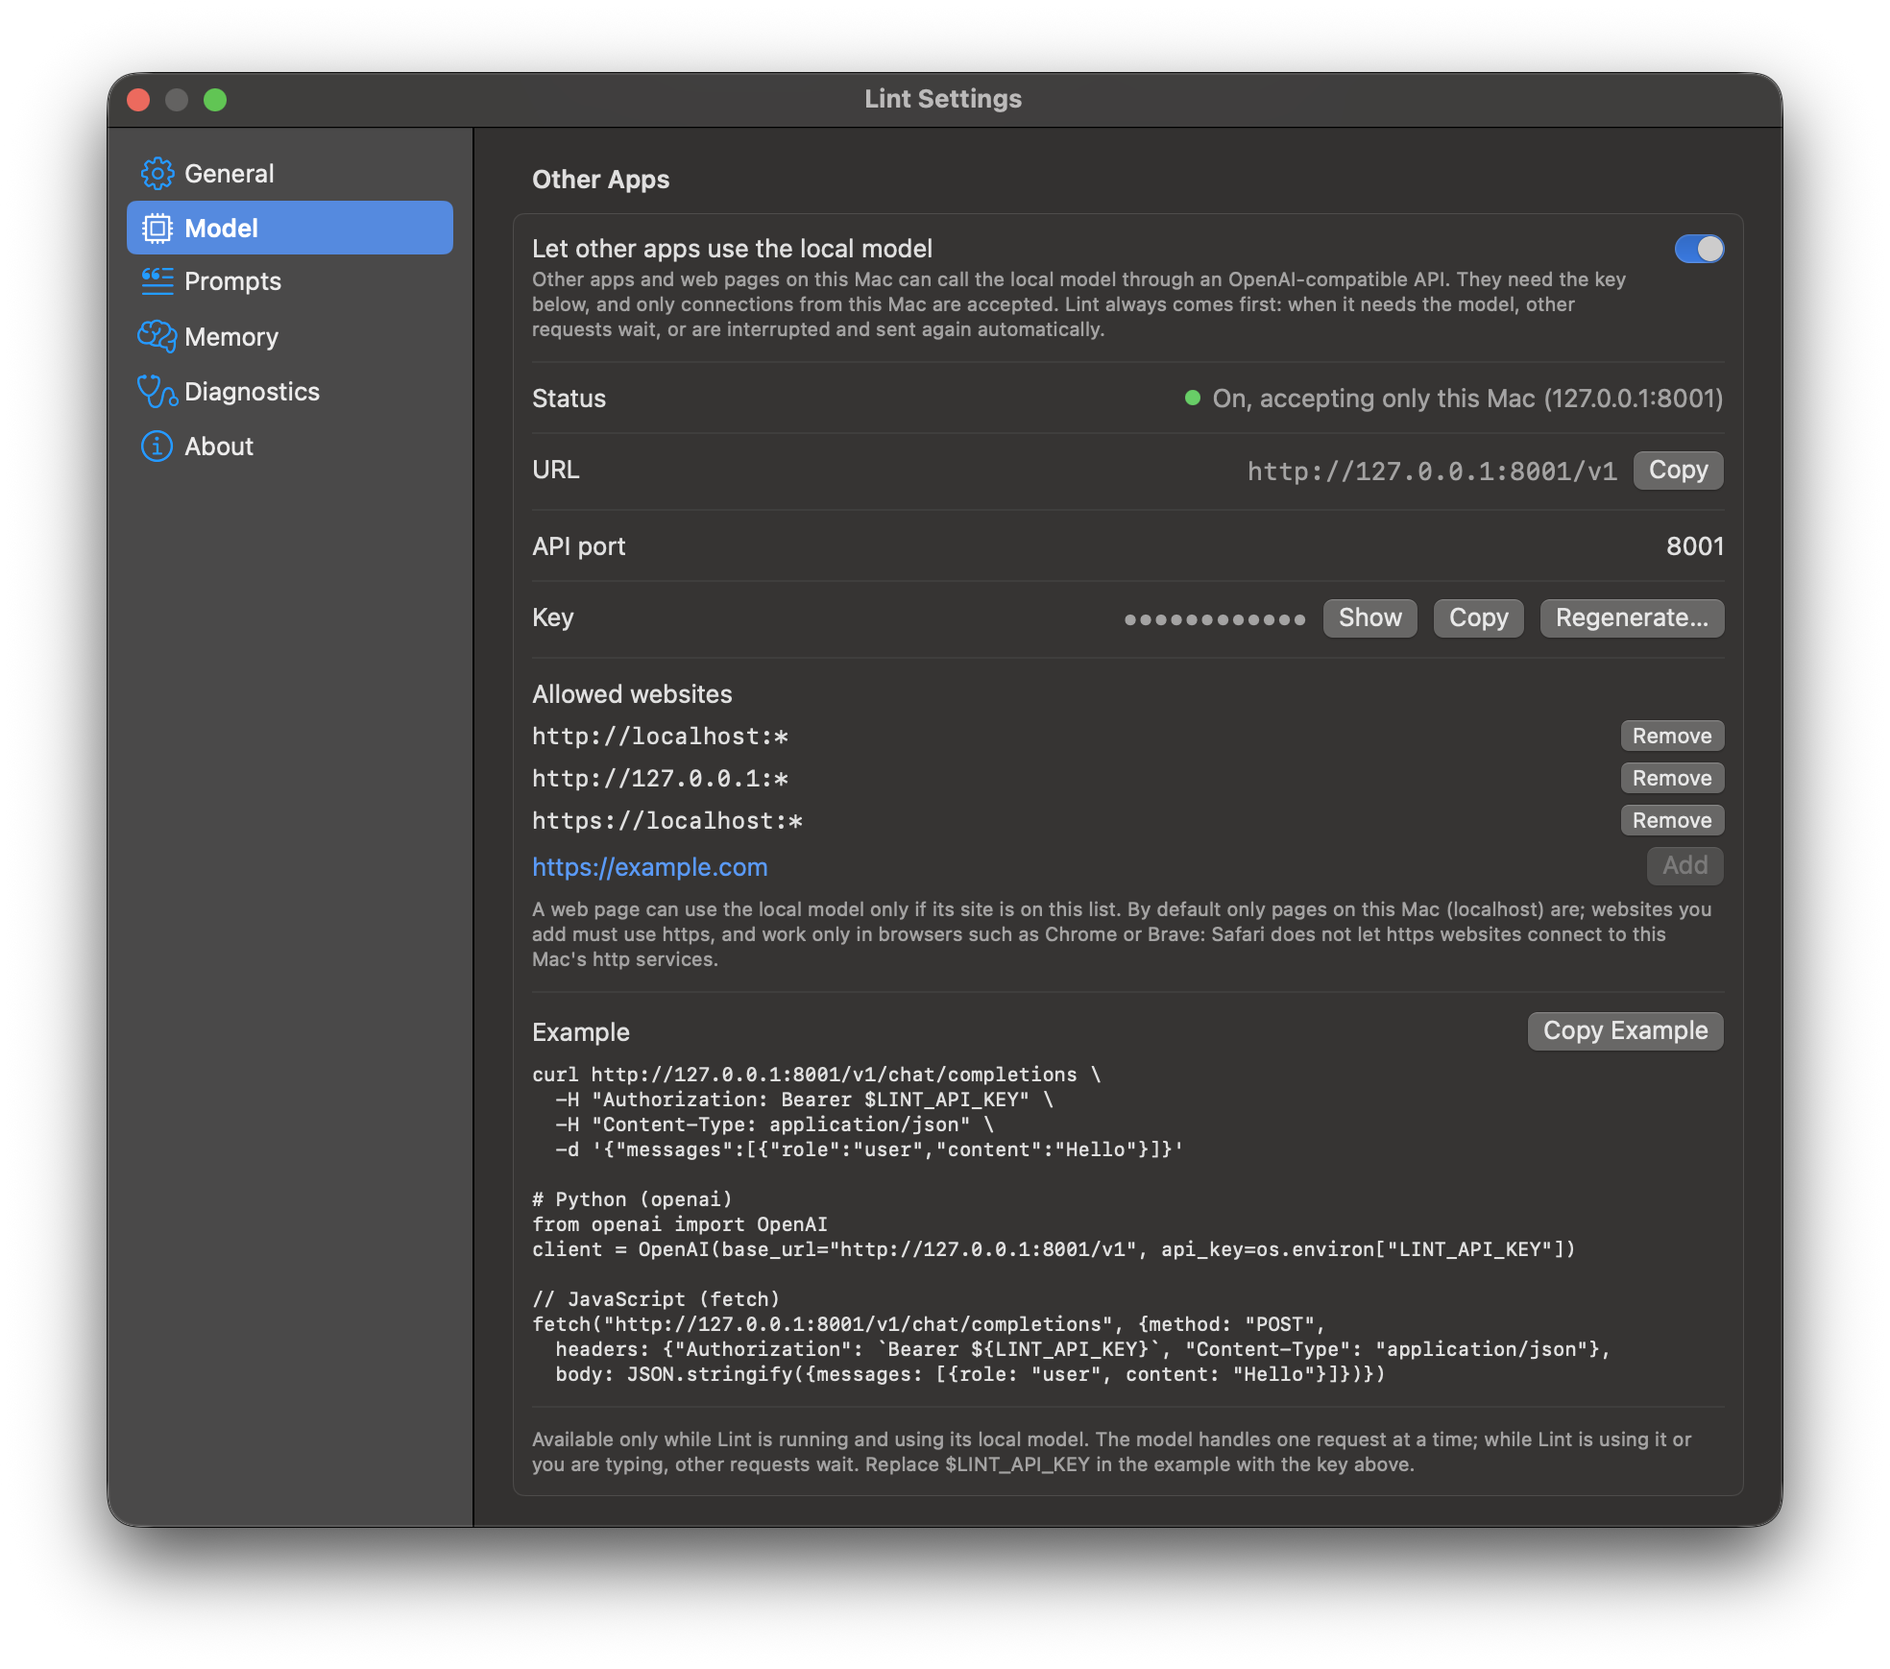
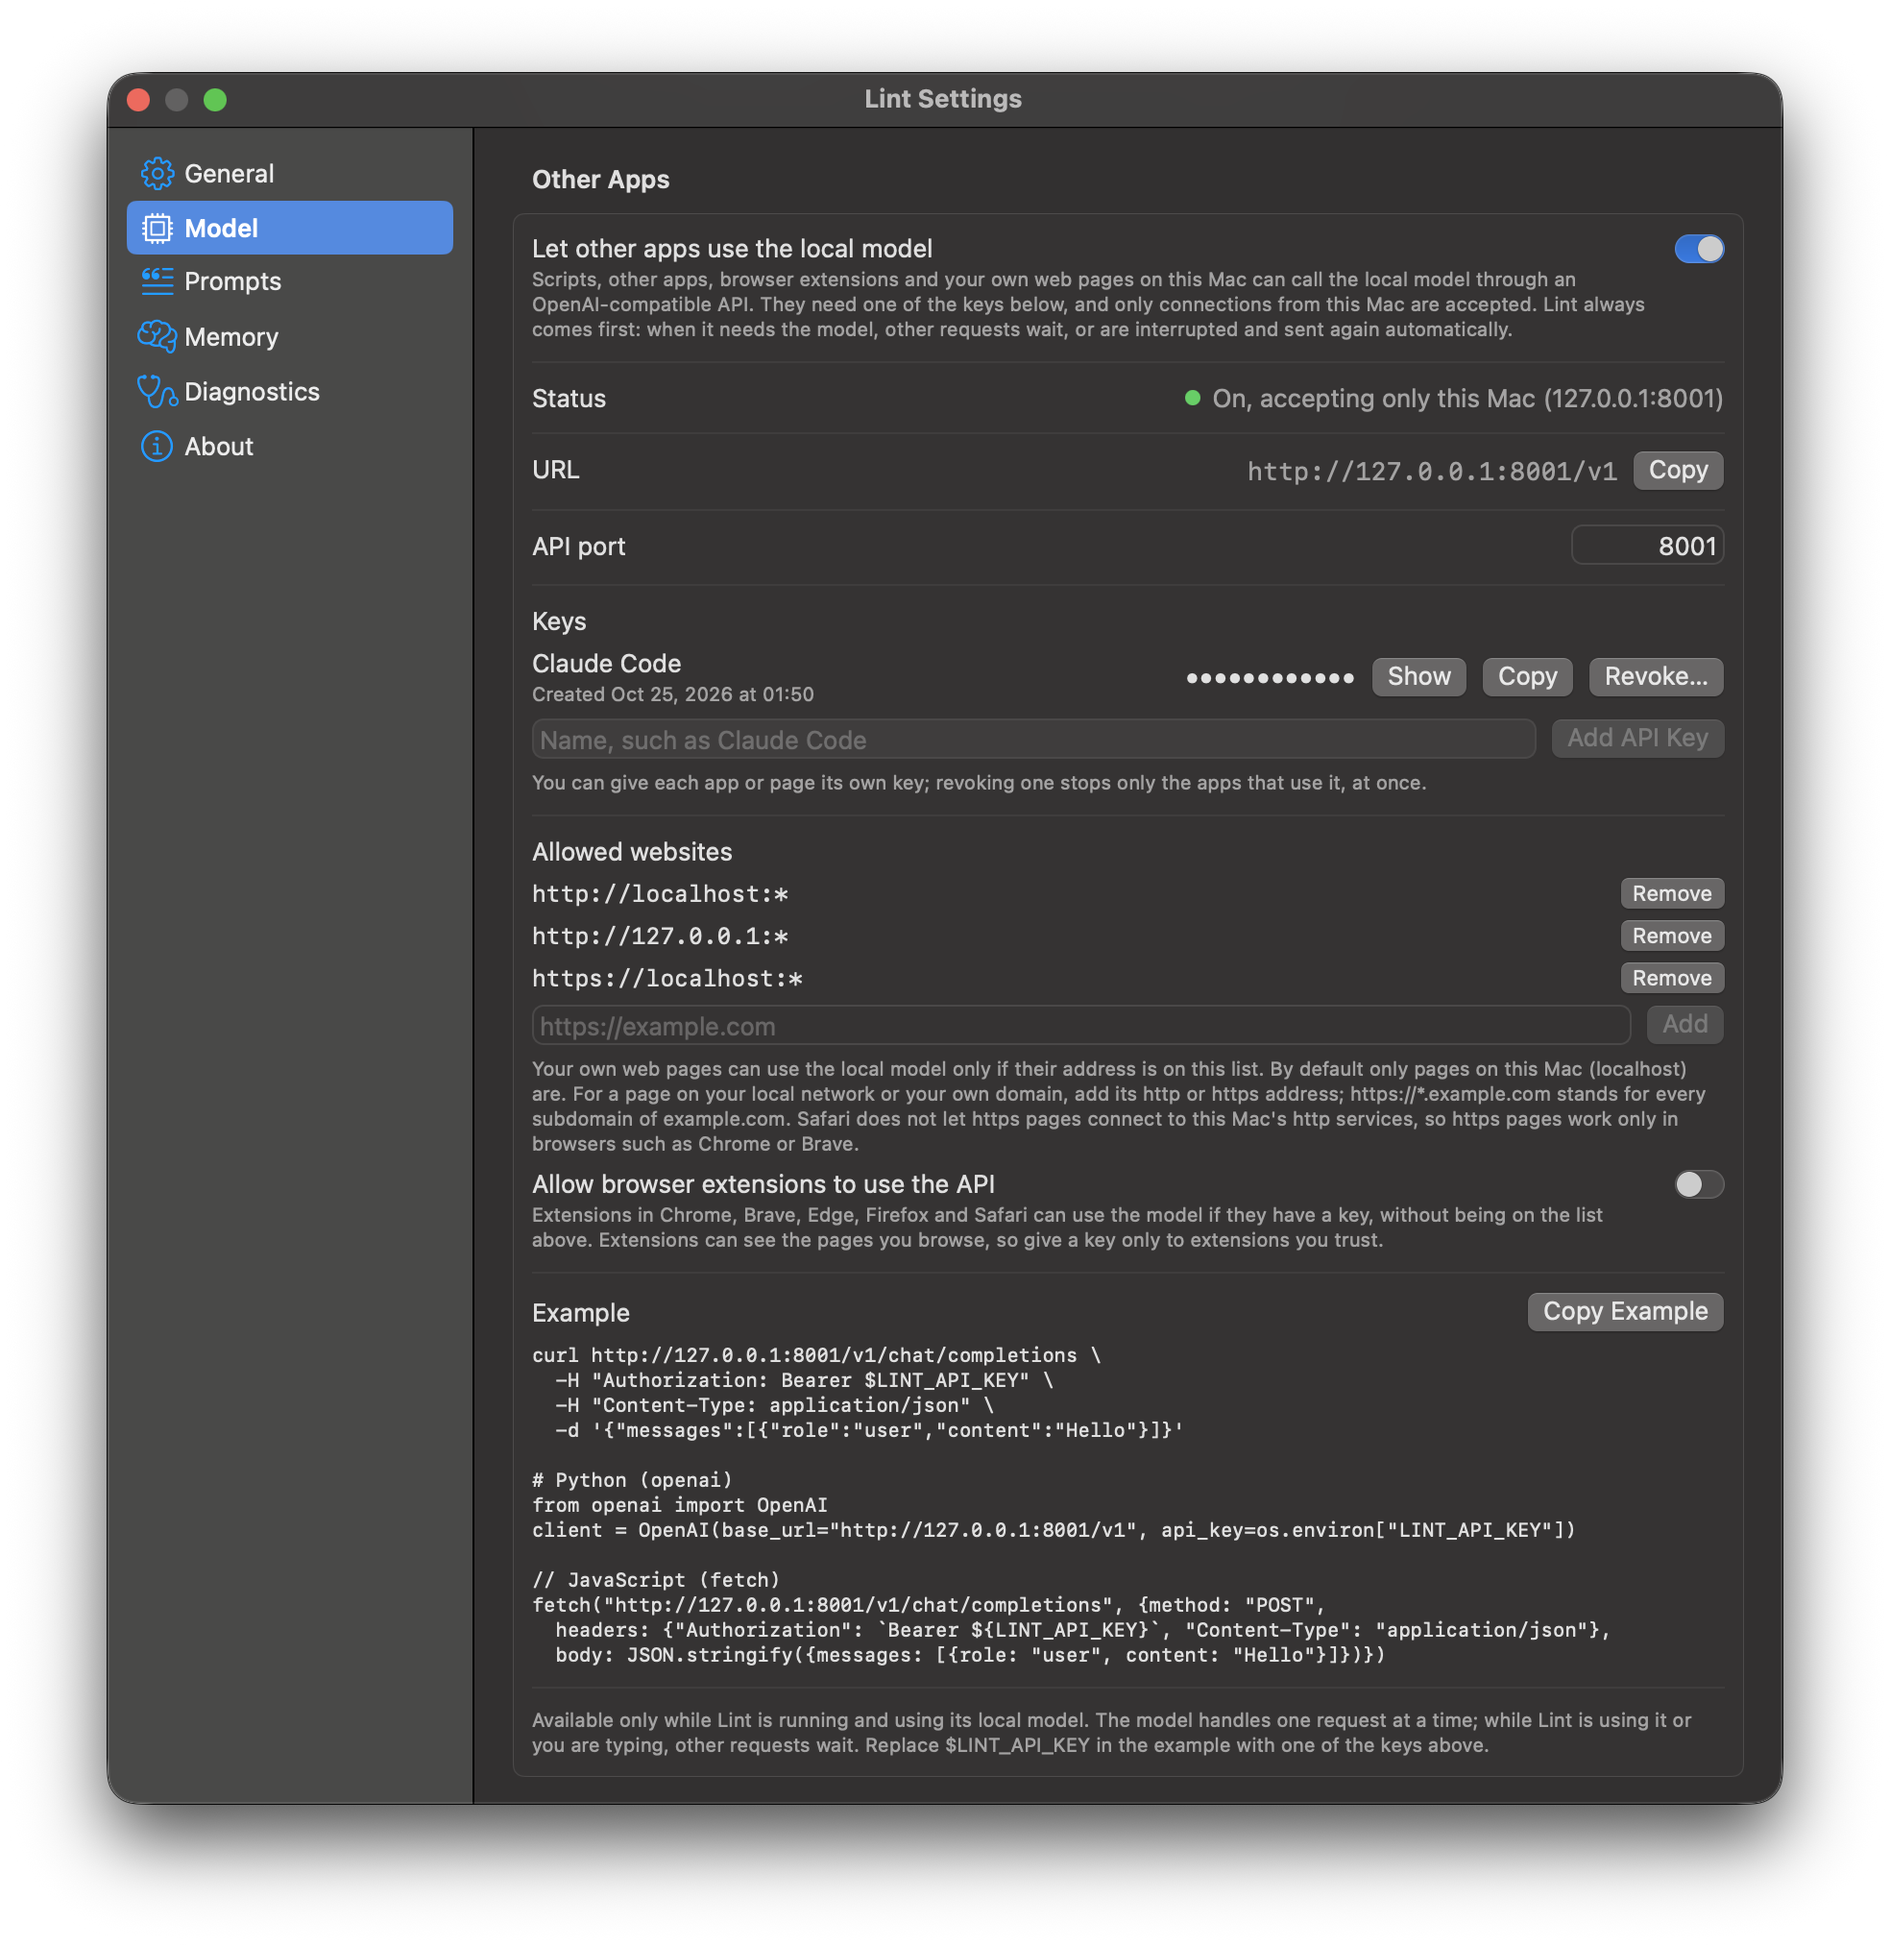
Retake the Other Apps screenshots for 0.16.1.
They show the key list, the bordered fields and the browser extensions
switch, with a made-up key (Claude Code) and the default websites.

Changed region(s): [[0.062, 0.0311, 0.9609, 0.9632], [0.8679, 0.1243, 0.9299, 0.1554]]

diff --git a/docs/guide.html b/docs/guide.html
@@ -578,8 +578,8 @@
         <p class="en">Open <strong>Settings… → Model</strong> with <strong>Local llama.cpp</strong> as the source, and under <strong>Other Apps</strong> turn on <strong>Let other apps use the local model</strong>. Copy the <strong>URL</strong> (<code>http://127.0.0.1:8001/v1</code>; the API port can be changed) and a key: give each app or page its own with <strong>Add API Key</strong> and a name, or use <strong>Default</strong> (<strong>Show</strong>, <strong>Copy</strong>). The section also has a ready-made example to copy.</p>
         <p class="zh">在模型來源是<strong>「本機 llama.cpp」</strong>的<strong>「設定… → 模型」</strong>，到<strong>「其他 app 使用」</strong>打開<strong>「讓其他 app 使用本機模型」</strong>。拷貝<strong>「網址」</strong>（<code>http://127.0.0.1:8001/v1</code>，API 埠可以改）和一把金鑰：可以用<strong>「新增 API Key」</strong>取個名稱，給每個 App 或網頁各自一把，或使用<strong>「預設」</strong>那把（<strong>「顯示」</strong>、<strong>「拷貝」</strong>）。同一區也有可以直接拷貝的範例。</p>
         <figure>
-          <a class="shot en" href="assets/guide/en/settings-other-apps.png" target="_blank" rel="noopener"><img src="assets/guide/en/settings-other-apps.png" alt="The Other Apps section in Settings, Model: the switch, status, URL, API port, key, allowed websites and an example" width="984" height="869" loading="lazy"></a>
-          <a class="shot zh" href="assets/guide/zh/settings-other-apps.png" target="_blank" rel="noopener"><img src="assets/guide/zh/settings-other-apps.png" alt="設定「模型」頁的「其他 app 使用」：開關、狀態、網址、API 埠、金鑰、允許的網站與範例" width="984" height="847" loading="lazy"></a>
+          <a class="shot en" href="assets/guide/en/settings-other-apps.png" target="_blank" rel="noopener"><img src="assets/guide/en/settings-other-apps.png" alt="The Other Apps section in Settings, Model: the switch, status, URL, API port, keys, allowed websites, the browser extensions switch and an example" width="984" height="1013" loading="lazy"></a>
+          <a class="shot zh" href="assets/guide/zh/settings-other-apps.png" target="_blank" rel="noopener"><img src="assets/guide/zh/settings-other-apps.png" alt="設定「模型」頁的「其他 app 使用」：開關、狀態、網址、API 埠、金鑰清單、允許的網站、瀏覽器擴充功能開關與範例" width="984" height="991" loading="lazy"></a>
           <figcaption><span class="en">Other Apps, in Settings → Model.</span><span class="zh">「設定 → 模型」裡的「其他 app 使用」。</span></figcaption>
         </figure>
         <p class="check en">The status says <strong>On, accepting only this Mac (127.0.0.1:8001)</strong>.</p>
